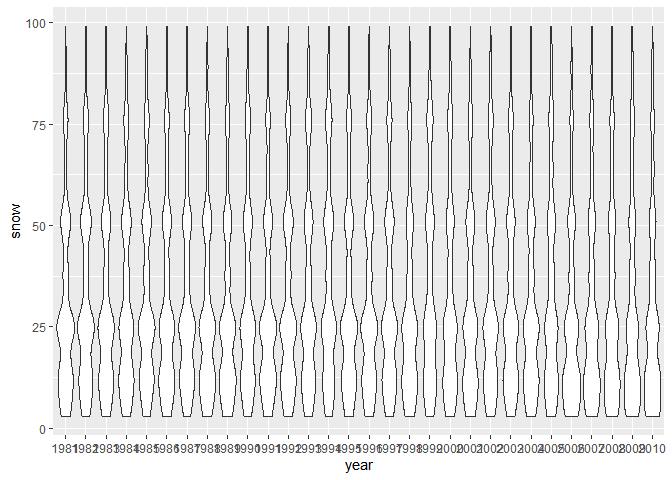
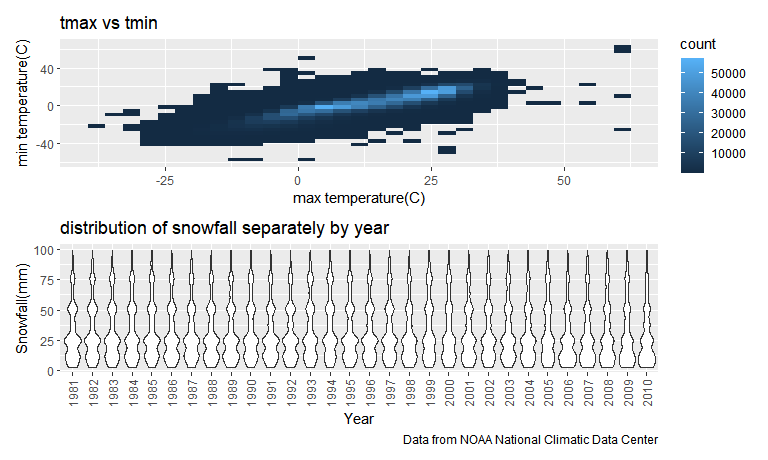
Finished description!

diff --git a/p8105_hw3_cy2588.md b/p8105_hw3_cy2588.md
@@ -27,6 +27,13 @@ library(p8105.datasets)
 library(patchwork)
 data("instacart")
 data("ny_noaa")
+
+knitr::opts_chunk$set(
+  fig.height = 8,
+  fig.width = 8,
+  fig.asp = .6,
+  out.width = "90%"
+)
 ```
 
 This dataset contains 1384617 rows and 15 columns.
@@ -84,7 +91,7 @@ instacart %>%
     theme(axis.text.x = element_text(angle = 90, vjust = 0.5, hjust = 1))
 ```
 
-![](p8105_hw3_cy2588_files/figure-gfm/unnamed-chunk-3-1.png)<!-- -->
+<img src="p8105_hw3_cy2588_files/figure-gfm/unnamed-chunk-2-1.png" width="90%" />
 
   - Make a table showing the three most popular items in each of the
     aisles “baking ingredients”, “dog food care”, and “packaged
@@ -177,31 +184,6 @@ accel_df =
   arrange(day, .by_group = TRUE)
 ```
 
-    ## Warning in FUN(X[[i]], ...): strings not representable in native encoding will
-    ## be translated to UTF-8
-
-    ## Warning in FUN(X[[i]], ...): unable to translate '<U+00C4>' to native encoding
-
-    ## Warning in FUN(X[[i]], ...): unable to translate '<U+00D6>' to native encoding
-
-    ## Warning in FUN(X[[i]], ...): unable to translate '<U+00E4>' to native encoding
-
-    ## Warning in FUN(X[[i]], ...): unable to translate '<U+00F6>' to native encoding
-
-    ## Warning in FUN(X[[i]], ...): unable to translate '<U+00DF>' to native encoding
-
-    ## Warning in FUN(X[[i]], ...): unable to translate '<U+00C6>' to native encoding
-
-    ## Warning in FUN(X[[i]], ...): unable to translate '<U+00E6>' to native encoding
-
-    ## Warning in FUN(X[[i]], ...): unable to translate '<U+00D8>' to native encoding
-
-    ## Warning in FUN(X[[i]], ...): unable to translate '<U+00F8>' to native encoding
-
-    ## Warning in FUN(X[[i]], ...): unable to translate '<U+00C5>' to native encoding
-
-    ## Warning in FUN(X[[i]], ...): unable to translate '<U+00E5>' to native encoding
-
 For now, in the final dataset, there are variables include day\_id,
 week, weekday\_vs\_weekend, day, minute, activity\_count, with a total
 of 50400 rows and 6 columns, there are 50400 observations.
@@ -261,7 +243,7 @@ accel_df %>%
 
     ## `geom_smooth()` using formula 'y ~ x'
 
-![](p8105_hw3_cy2588_files/figure-gfm/unnamed-chunk-8-1.png)<!-- -->
+<img src="p8105_hw3_cy2588_files/figure-gfm/unnamed-chunk-7-1.png" width="90%" />
 Based on this graph, it’s seems that daily active time of this 63
 year-old male is basically from around 8am to 10pm, and for weekday, his
 activity counts would be higher and with longer active time.
@@ -384,12 +366,16 @@ ny_noaa_df %>%
 
     ## `summarise()` regrouping output by 'year', 'month' (override with `.groups` argument)
 
-![](p8105_hw3_cy2588_files/figure-gfm/unnamed-chunk-11-1.png)<!-- -->
+<img src="p8105_hw3_cy2588_files/figure-gfm/unnamed-chunk-10-1.png" width="90%" />
 There’s a increasing of tmax in January from 1981 to 1993, but not
 continue increase after that. The tmax of July are relatively stable.
-There do have some outliers, Even if things are messy, are some stations
-usually higher or lower than others across years? Are some years higher
-or lower than you might expect?
+And all the temperature data basically follow the same variation, and
+relatively keep same differences between stations. There do have some
+outliers, such as temperature of January in 1982 or temperature of July
+in 1988 and 2004. They may caused by abnormal changes in the weather or
+just wrong data. Even if things are messy, are some stations usually
+higher or lower than others across years? Are some years higher or lower
+than you might expect?
 
 ### 3
 
@@ -427,4 +413,4 @@ combine panels
 temp_plot / snow_plot
 ```
 
-![](p8105_hw3_cy2588_files/figure-gfm/unnamed-chunk-14-1.png)<!-- -->
+<img src="p8105_hw3_cy2588_files/figure-gfm/unnamed-chunk-13-1.png" width="90%" />
